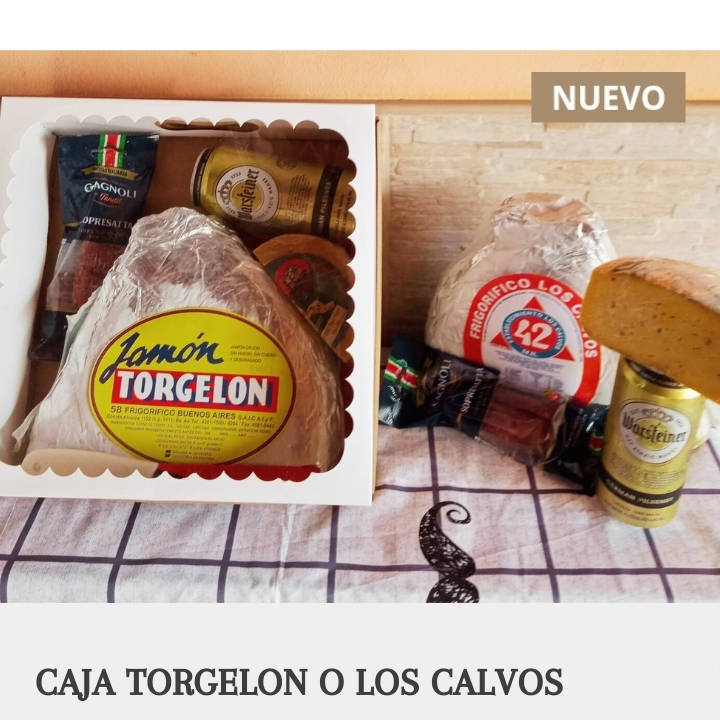
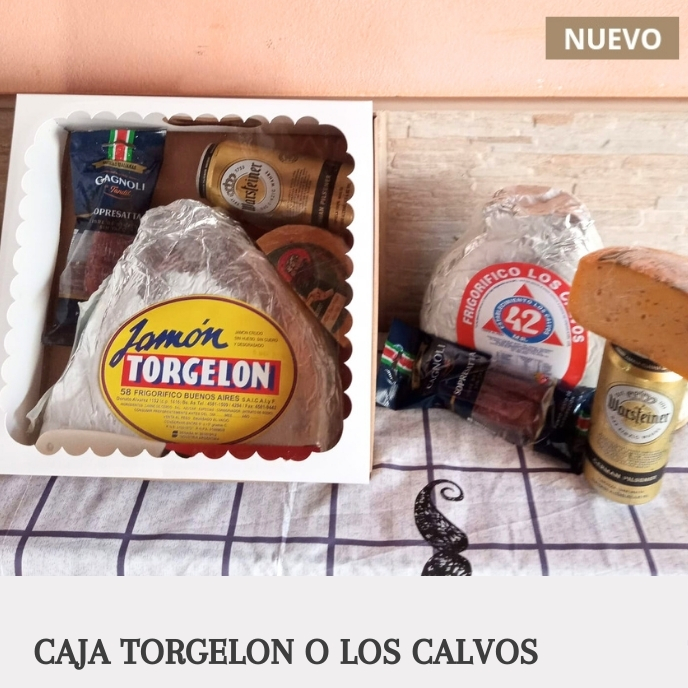
Modífica CardBox y a ImgCardBox, en tamaño y en nombres

diff --git a/src/components/molecules/ImgCardBox.jsx b/src/components/molecules/ImgCardBox.jsx
@@ -1,19 +1,19 @@
-import CardImg20 from '../../graphics/imagenes/productos/box gourmet/Berlín copia.jpg';
-import CardImg21 from '../../graphics/imagenes/productos/box gourmet/Bruselas copia.jpg';
-import CardImg22 from '../../graphics/imagenes/productos/box gourmet/Camboriú copia.jpg';
-import CardImg23 from '../../graphics/imagenes/productos/box gourmet/Lapampa copia.jpg';
-//import CardImg24 from '../../graphics/imagenes/productos/box gourmet/Caja gourmet copia.jpg';
-import CardImg25 from '../../graphics/imagenes/productos/box gourmet/Milan copia.jpg';
-import CardImg26 from '../../graphics/imagenes/productos/box gourmet/París copia.jpg';
-import CardImg27 from '../../graphics/imagenes/productos/box gourmet/caja zurich copia.jpg';
-import CardImg28 from '../../graphics/imagenes/productos/box gourmet/Santafe copia.jpg';
-import CardImg29 from '../../graphics/imagenes/productos/box gourmet/Papádulce copia.jpg';
-import CardImg30 from '../../graphics/imagenes/productos/box gourmet/Papápicadamini1 copia.jpg';
-import CardImg31 from '../../graphics/imagenes/productos/box gourmet/Papávip copia.jpg';
-import CardImg32 from '../../graphics/imagenes/productos/box gourmet/Papácerveceros copia.jpg';
-import CardImg33 from '../../graphics/imagenes/productos/box gourmet/Papácool copia.jpg';
+import CardImg20 from '../../graphics/imagenes/productos/box gourmet/Caja Berlín.jpg';
+import CardImg21 from '../../graphics/imagenes/productos/box gourmet/Caja Bruselas.jpg';
+import CardImg22 from '../../graphics/imagenes/productos/box gourmet/Caja Camboriú.jpg';
+import CardImg23 from '../../graphics/imagenes/productos/box gourmet/Caja La Pampa.jpg';
+//import CardImg24 from '../../graphics/imagenes/productos/box gourmet/Caja gourmet.jpg';
+import CardImg25 from '../../graphics/imagenes/productos/box gourmet/Caja Milan.jpg';
+import CardImg26 from '../../graphics/imagenes/productos/box gourmet/Caja París.jpg';
+import CardImg27 from '../../graphics/imagenes/productos/box gourmet/Caja Zurich.jpg';
+import CardImg28 from '../../graphics/imagenes/productos/box gourmet/Caja Santa Fe.jpg';
+import CardImg29 from '../../graphics/imagenes/productos/box gourmet/Caja Papá picada mini 1.jpg';
+import CardImg30 from '../../graphics/imagenes/productos/box gourmet/Caja Papá vip.jpg';
+import CardImg31 from '../../graphics/imagenes/productos/box gourmet/Caja Papá cool.jpg';
+import CardImg32 from '../../graphics/imagenes/productos/box gourmet/Caja Papá dulce.jpg';
+import CardImg33 from '../../graphics/imagenes/productos/box gourmet/Caja Papá cerveceros.jpg';
 import CardImg34 from '../../graphics/imagenes/productos/box gourmet/Caja 5j.jpg';
-import CardImg35 from '../../graphics/imagenes/productos/box gourmet/Caja Torgelon o Los Calvos copia.jpg';
+import CardImg35 from '../../graphics/imagenes/productos/box gourmet/Caja Torgelon o Los Calvos.jpg';
 import CardImg36 from '../../graphics/imagenes/productos/box gourmet/Caja desayuno.jpg';
 
 

diff --git a/src/components/molecules/CardBox.jsx b/src/components/molecules/CardBox.jsx
@@ -3,9 +3,9 @@ const CardBox = ({value}) => {
   
   return (
       <div>
-          <div className="w-auto transition-all duration-200 ease-in-out scale-100 bg-[#FFFFFF] shadow-xl cursor-pointer md:w-72 rounded-xl sm:shadow-2xl md:shadow-xl xl:shadow-md hover:shadow-2xl hover:scale-105">
+          <div className="transition-all duration-200 ease-in-out scale-100 bg-[#FFFFFF] shadow-xl cursor-pointer sm:w-96 h-100 w-80 h-90 rounded-xl sm:shadow-2xl md:shadow-xl xl:shadow-md hover:shadow-2xl hover:scale-105">
             <div className="flex items-start justify-center w-auto h-auto overflow-hidden ">
-              <img className="mt-1 brightness-120 rounded-t-xl w-72 h-72 sm:w-80 h-72" src= {value.img} alt="box gourmet" />
+              <img className="mt-1 brightness-120 rounded-t-xl sm:w-96 h-100 w-80 h-90" src= {value.img} alt="box gourmet" />
             </div>
             <div className="flex-col w-auto p-10 mt-0 font-sans text-center text-zinc-600">
                 <p>
